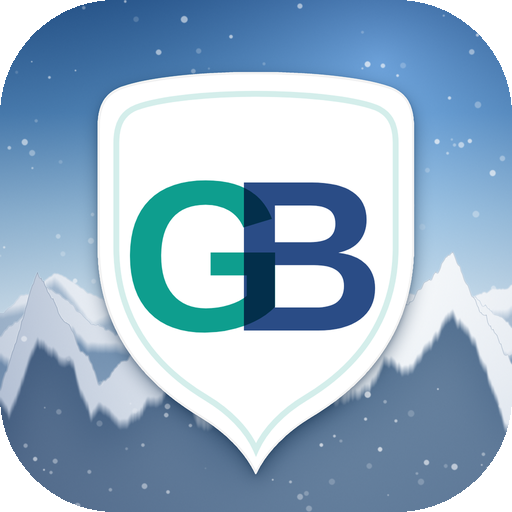
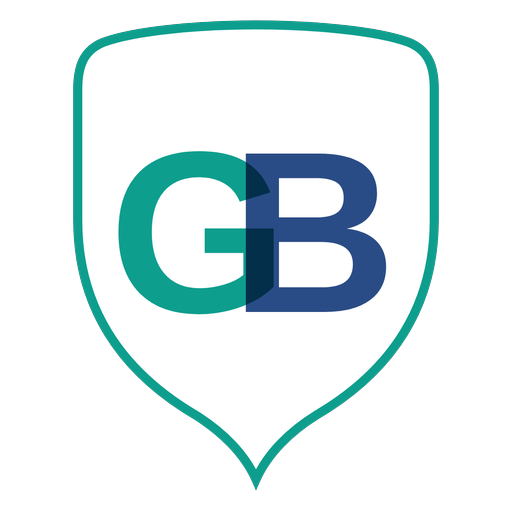
ローディング表示を盾とGBだけにする（雪山の背景を外す）
背景つきのアプリアイコンを出していたが、ボタン内の16〜24px表示では雪山が主張して
マークが読めなくなっていた。盾とGBだけの表示に戻す。

画像は新規に作らず、既にリポジトリにあるブランドロゴ src/assets/gymboard-logo.png
（ティールの輪郭の盾＋GB・透過）を使う。以前ここで白ベタの盾を避けたのは
「明るい背景で沈むから」だったが、このロゴは盾が輪郭線なのでその問題は起きない。
アプリの背景は --background の1テーマのみでダークモードは無い。

ロゴ原本はそのままでは使わない。周囲の余白が大きく上下の中心もずれている
（上165px/下64px）ため、object-contain で正方形に収めると小さく下寄りに出る。
透明な余白を落として正方形の中央に置き直したものを
src/assets/gymboard-loader.png として書き出す。128/96/64/40/24/16px で確認済み。

## テスト

src/test/appIconAssets.test.ts を更新。ローディングが盾とGBのロゴを使っていること、
生成元がアイコンではなくブランドロゴであること、画像がアルファチャンネルを持つこと
（背景つきのアイコンは色タイプ2なのでここで落ちる）を見る。

2種類の変異（ローダー画像をアイコンに差し替える／生成元をアイコンに戻す）で
落ちることを確認済み。

アプリアイコン本体は変更なし（生成し直して画素が1つも変わらないことを確認済み）。

tsc / vitest（257件）/ npm run build を確認済み。

diff --git a/src/test/appIconAssets.test.ts b/src/test/appIconAssets.test.ts
@@ -20,10 +20,25 @@ function pngSize(path: string): [number, number] {
 }
 
 describe("アプリアイコンのアセット", () => {
-  it("ローディング表示はアプリアイコンを使う", () => {
+  it("ローディング表示は盾とGBのロゴを使う", () => {
     const src = readFileSync("src/components/ui/dumbbell-loader.tsx", "utf8");
     expect(src).toContain("@/assets/gymboard-loader.png");
     expect(existsSync("src/assets/gymboard-loader.png")).toBe(true);
+    // 生成元はブランドロゴ。アイコン（雪山の背景つき）に戻すと、
+    // ボタン内の16〜24px表示で背景が主張してマークが読めなくなる。
+    const gen = readFileSync("scripts/generate-app-icon.py", "utf8");
+    expect(gen).toMatch(/Image\.open\("src\/assets\/gymboard-logo\.png"\)/);
+  });
+
+  it("ローディング画像は背景を持たない（アルファチャンネルあり）", () => {
+    // 背景つきの画像を貼ると、白い画面の上で四角い板が浮いて見える。
+    // PNG の IHDR 25バイト目が色タイプ。6 = truecolor+alpha、2 = alpha無しのRGB。
+    // 背景つきのアプリアイコン（=2）を流用すると、この判定で落ちる。
+    const colorType = (p: string) => readFileSync(p).readUInt8(25);
+    expect(colorType("src/assets/gymboard-loader.png"),
+      "ローディング画像にアルファチャンネルが無い").toBe(6);
+    expect(colorType("assets/icon-only.png"),
+      "前提が崩れている: アプリアイコンは背景つき(色タイプ2)のはず").toBe(2);
   });
 
   it("ワールドカップのトロフィー画像が復活していない", () => {

diff --git a/src/components/ui/dumbbell-loader.tsx b/src/components/ui/dumbbell-loader.tsx
@@ -30,13 +30,17 @@ interface DumbbellLoaderProps extends Omit<React.ImgHTMLAttributes<HTMLImageElem
  * - className lands on the outer span, so layout classes (mr-2, etc.) keep
  *   working when used as a drop-in replacement for Loader2.
  *
- * The artwork is the app icon with rounded corners (src/assets/gymboard-loader.png,
- * generated by scripts/generate-app-icon.py). It carries its own background, so it
- * stays visible on both the light app background and dark surfaces — the bare white
- * shield would disappear on light backgrounds.
+ * The artwork is the brand mark — the teal-outlined shield with the GB monogram, on a
+ * transparent background (src/assets/gymboard-loader.png, generated by
+ * scripts/generate-app-icon.py from src/assets/gymboard-logo.png).
  *
- * The name is historical: this rendered a dumbbell, then a World Cup trophy, and now
- * the app icon. Renaming would touch 40+ call sites, so it was left alone.
+ * It does not carry a background. The shield is a teal outline rather than a white fill,
+ * so it still reads on the app's near-white surface (--background is the only theme;
+ * there is no dark mode). The winter app icon was used here briefly, but its scenery
+ * competes with the mark at the 16-24px sizes this renders at inside buttons.
+ *
+ * The name is historical: this rendered a dumbbell, then a World Cup trophy, then the
+ * app icon. Renaming would touch 40+ call sites, so it was left alone.
  */
 export const DumbbellLoader = ({
   size = "md",

diff --git a/scripts/generate-app-icon.py b/scripts/generate-app-icon.py
@@ -285,16 +285,28 @@ icon.resize((32, 32), Image.LANCZOS).save("public/favicon.png")
 rgba.resize((256, 256), Image.LANCZOS).save("public/favicon.ico", sizes=[(256, 256)])
 
 # =========================================================================
-# 2) アプリ内ローディング表示（角丸・透過）
+# 2) アプリ内ローディング表示（盾とGBだけ・透過）
 # =========================================================================
-# 正方形のまま貼ると「青い四角」に見えるので、アイコンらしく角を丸める。
-# 64px 表示の 3倍解像度に耐えるよう 512 で書き出す。
+# 背景（雪山）は入れず、ブランドロゴ src/assets/gymboard-logo.png の
+# 「ティールの輪郭の盾＋GB」をそのまま使う（オーナーの指定）。
+#
+# 白背景に沈まないのは、盾が白ベタではなくティールの輪郭で描かれているため。
+# アプリの背景は --background: 30 20% 99% のほぼ白1色でダークテーマは無い。
+#
+# ロゴ原本は周囲に余白があり、上下の中心も少しずれている（上165px/下64px）。
+# そのまま object-contain で正方形に収めると小さく・下寄りに出るので、
+# 中身のbboxで切り出して正方形の中央に置き直す。16〜24pxのボタン内表示でも
+# 図形を最大限使えるようにするため。
 LOADER = 512
-corner = Image.new("L", (LOADER, LOADER), 0)
-ImageDraw.Draw(corner).rounded_rectangle(
-    [0, 0, LOADER - 1, LOADER - 1], radius=int(LOADER * 0.225), fill=255)
-loader = icon.convert("RGBA").resize((LOADER, LOADER), Image.LANCZOS)
-loader.putalpha(corner)
+LOADER_MARGIN = 0.04                      # 端に触れないぶんだけの余白
+logo = Image.open("src/assets/gymboard-logo.png").convert("RGBA")
+logo = logo.crop(logo.getbbox())          # 透明な余白を落とす
+inner = int(LOADER * (1 - LOADER_MARGIN * 2))
+scale = min(inner / logo.width, inner / logo.height)
+logo = logo.resize((max(1, round(logo.width * scale)),
+                    max(1, round(logo.height * scale))), Image.LANCZOS)
+loader = Image.new("RGBA", (LOADER, LOADER), (0, 0, 0, 0))
+loader.paste(logo, ((LOADER - logo.width) // 2, (LOADER - logo.height) // 2), logo)
 loader.save("src/assets/gymboard-loader.png")
 
 # =========================================================================
